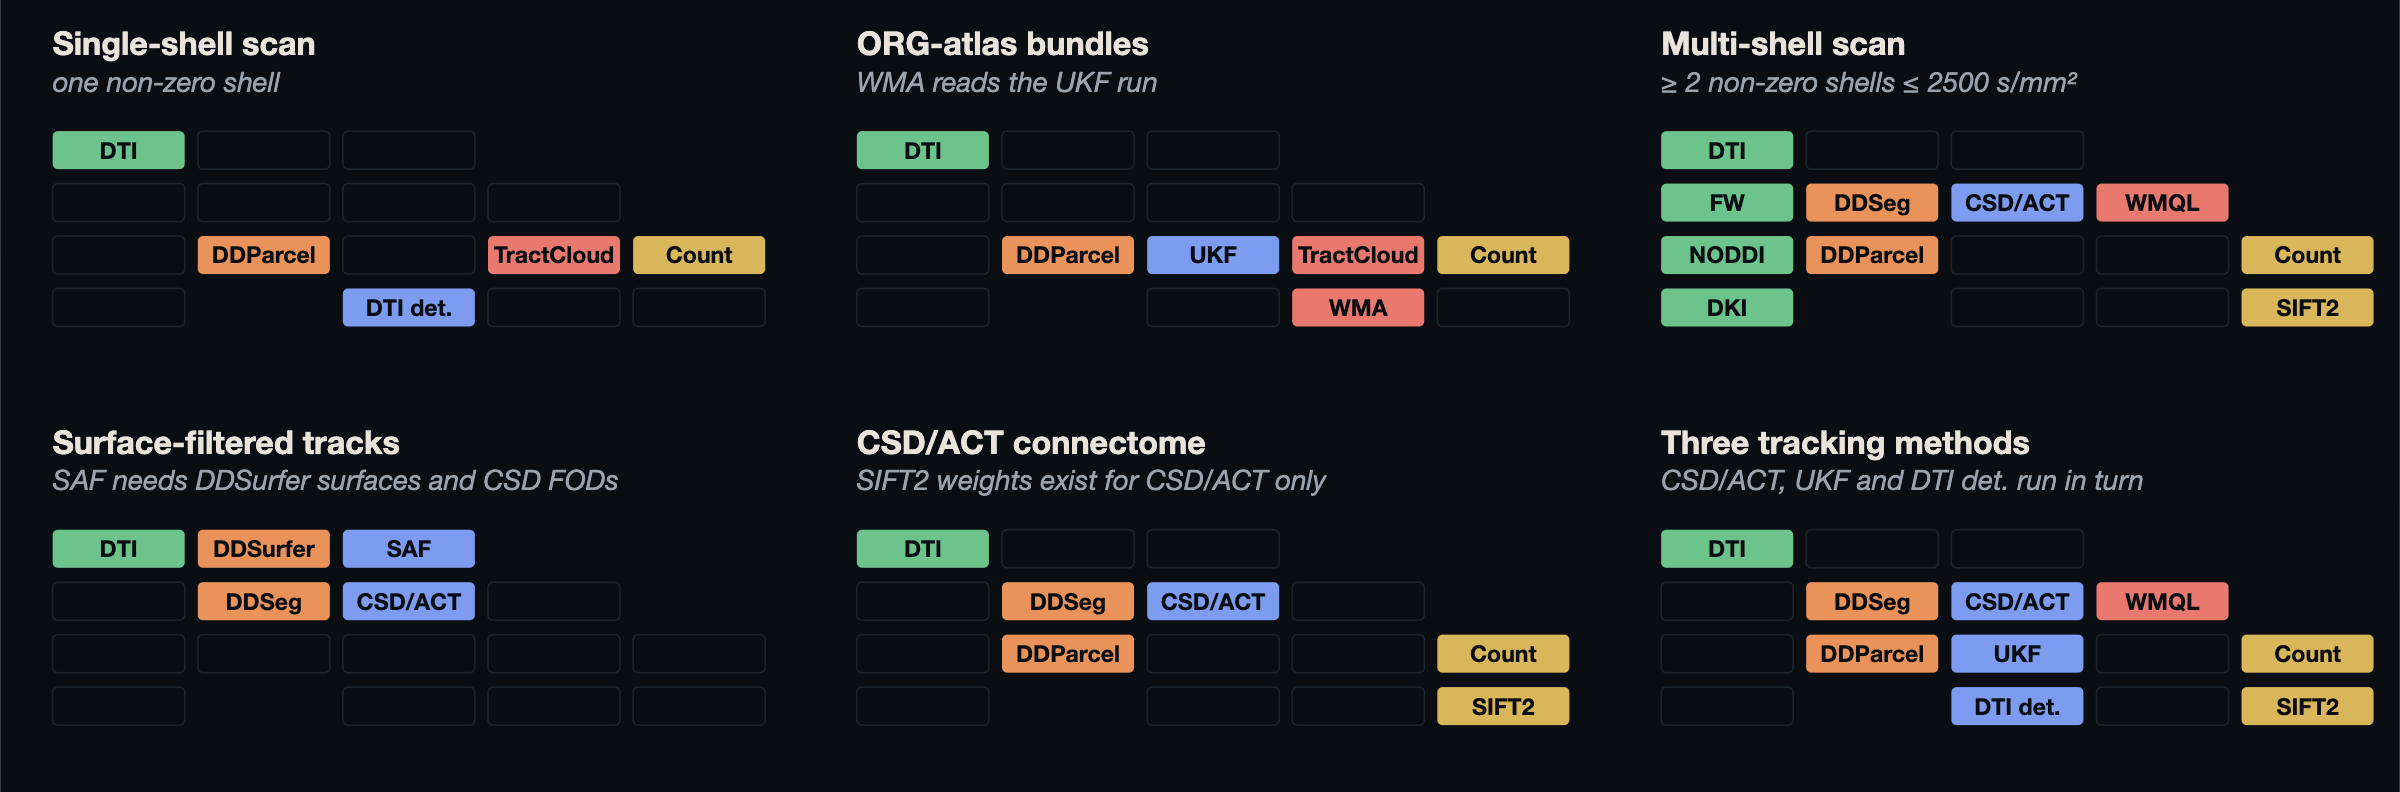
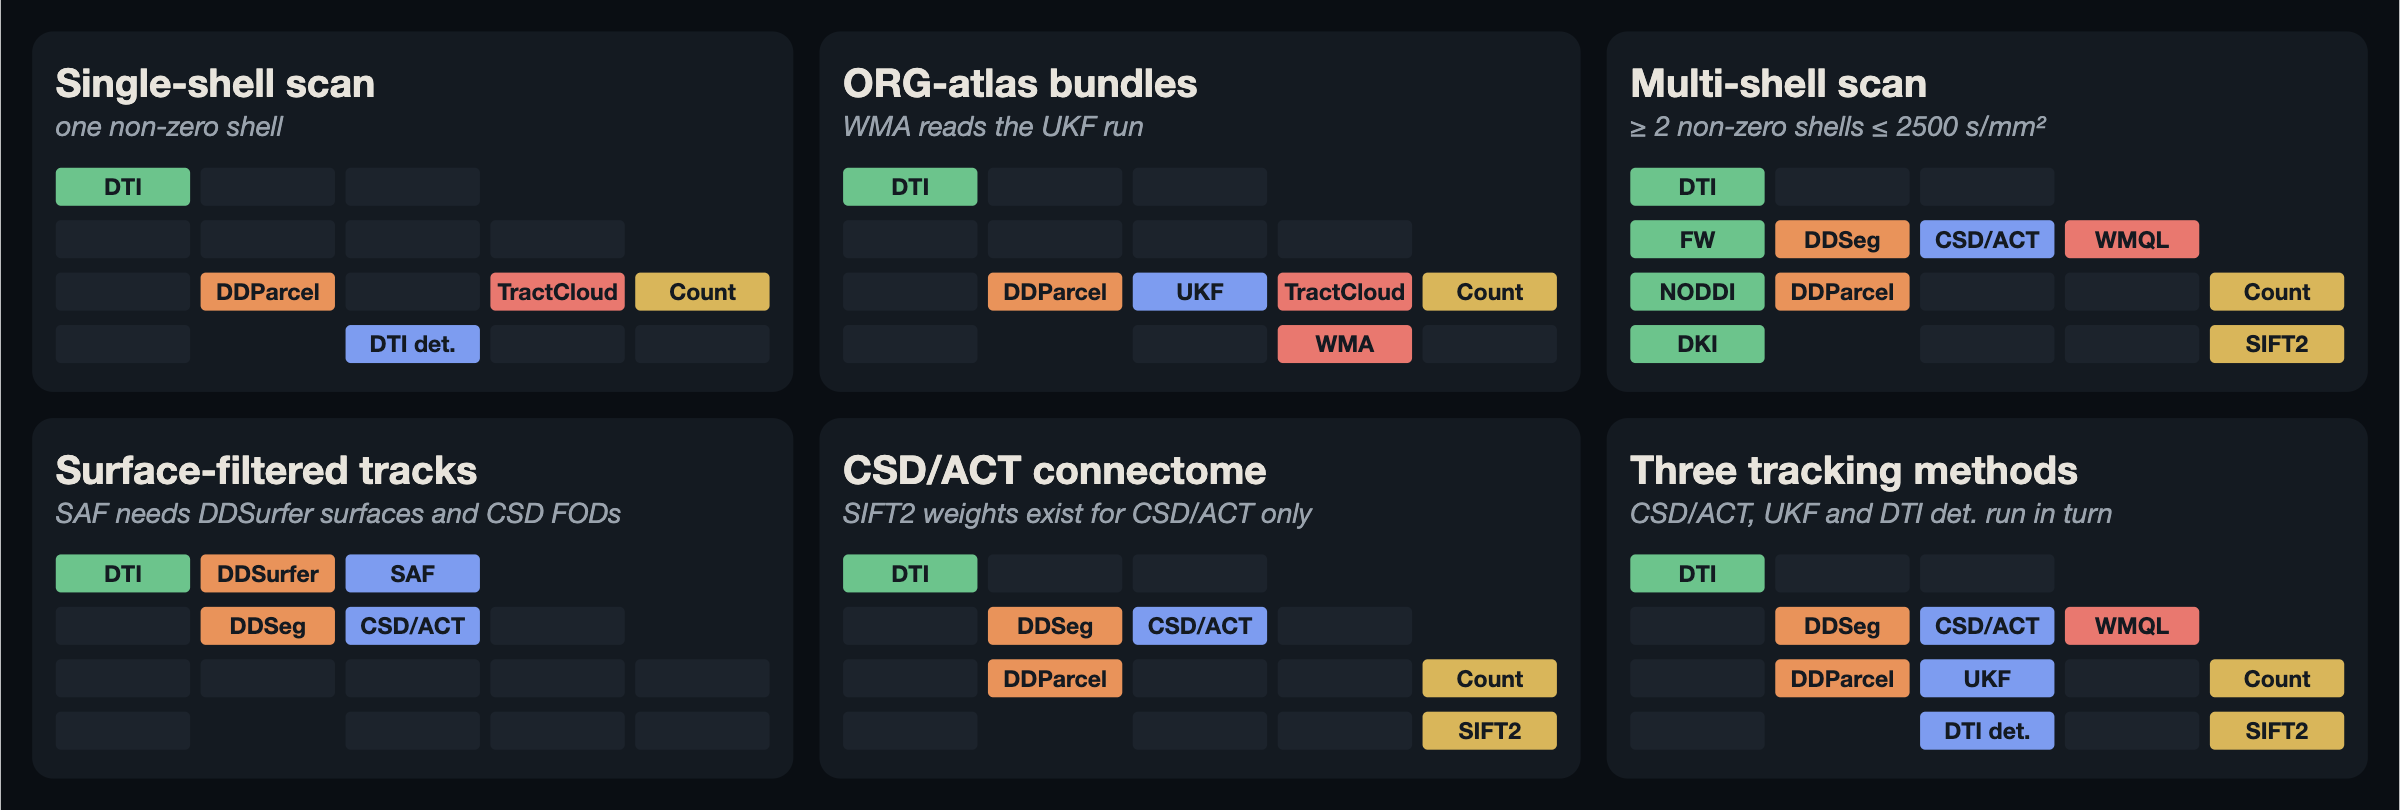
Figures: route guide, run times and architecture on dark rounded panels
User request: the results figure's style (white page, dark rounded
panels without an edge, larger titles) for the last three figures.
Route guide: each route on its own panel, its name at 8.5 pt;
unselected cells are faint fills. Run times: a and b each on a panel,
letter and title at the results figure's sizes, the scope in brackets.
Architecture: a head panel with the column heads and the key, then one
panel per stage, its name in the stage colour at 8.5 pt.

Two fixes found while exporting:
- panel_svg took the dark theme's font (Inter) for the print copies;
  they use Helvetica or Arial again, as the README says. The product map
  and run flow of b6bbe60 are re-exported.
- Inkscape 1.4 drops a tspan's leading space in the PDF ("DDSeg(prediction)",
  "2.5s"); Svg.runs and the run-time labels now set xml:space="preserve".
  The results SVG changes by this attribute only.
New tests: test_text_runs_keep_their_leading_spaces_in_inkscape,
test_panel_figures_print_in_helvetica. The runtime test compares the
bracket notes with the panel's grey. Site images re-rendered
(route guide 2400 x 810, run times 2400 x 1967).

Changed region(s): [[0.0, 0.5455, 1.0, 0.9394], [0.0, 0.0303, 1.0, 0.4545]]

diff --git a/docs/site/index.html b/docs/site/index.html
@@ -380,7 +380,7 @@
     </figure>
     <figure class="panel shot fig">
       <a href="assets/img/fig-route-guide.png" target="_blank" rel="noopener" aria-label="Open the full-size route guide">
-        <img src="assets/img/fig-route-guide.png" width="2400" height="792" loading="lazy" decoding="async" alt="Route guide: six example routes, each on a small grid of the product map's five columns, with the selected products filled.">
+        <img src="assets/img/fig-route-guide.png" width="2400" height="810" loading="lazy" decoding="async" alt="Route guide: six example routes, each on a small grid of the product map's five columns, with the selected products filled.">
       </a>
       <figcaption>Six example routes that together use every method. Built from the planner and method code and the documented dependencies; status is recorded for Linux test subjects.</figcaption>
     </figure>
@@ -615,7 +615,7 @@ python3 scripts/stage_slicer_extension.py \
     <h2>Recorded run times, per module.</h2>
     <figure class="panel shot fig">
       <a href="assets/img/fig-runtime-resources.png" target="_blank" rel="noopener" aria-label="Open the full-size run-time figure">
-        <img src="assets/img/fig-runtime-resources.png" width="2400" height="1818" loading="lazy" decoding="async" alt="Dot plots on a log time scale. Panel a: recorded run time per module on Linux, GPU runs marked. Panel b: run time before and after seven code-path changes, one pair per row.">
+        <img src="assets/img/fig-runtime-resources.png" width="2400" height="1967" loading="lazy" decoding="async" alt="Dot plots on a log time scale. Panel a: recorded run time per module on Linux, GPU runs marked. Panel b: run time before and after seven code-path changes, one pair per row.">
       </a>
       <figcaption>Log scale, one scoped measurement per row; rows are not summed. Panel a: recorded run time per module on Linux, GPU runs marked. Panel b: before and after seven code-path changes, one pair per row, on a shared Linux host; outputs match. SAF re-filters 100,000 existing tracks (no new initial tracking); TractCloud ran on 50,000 tracks.</figcaption>
     </figure>
